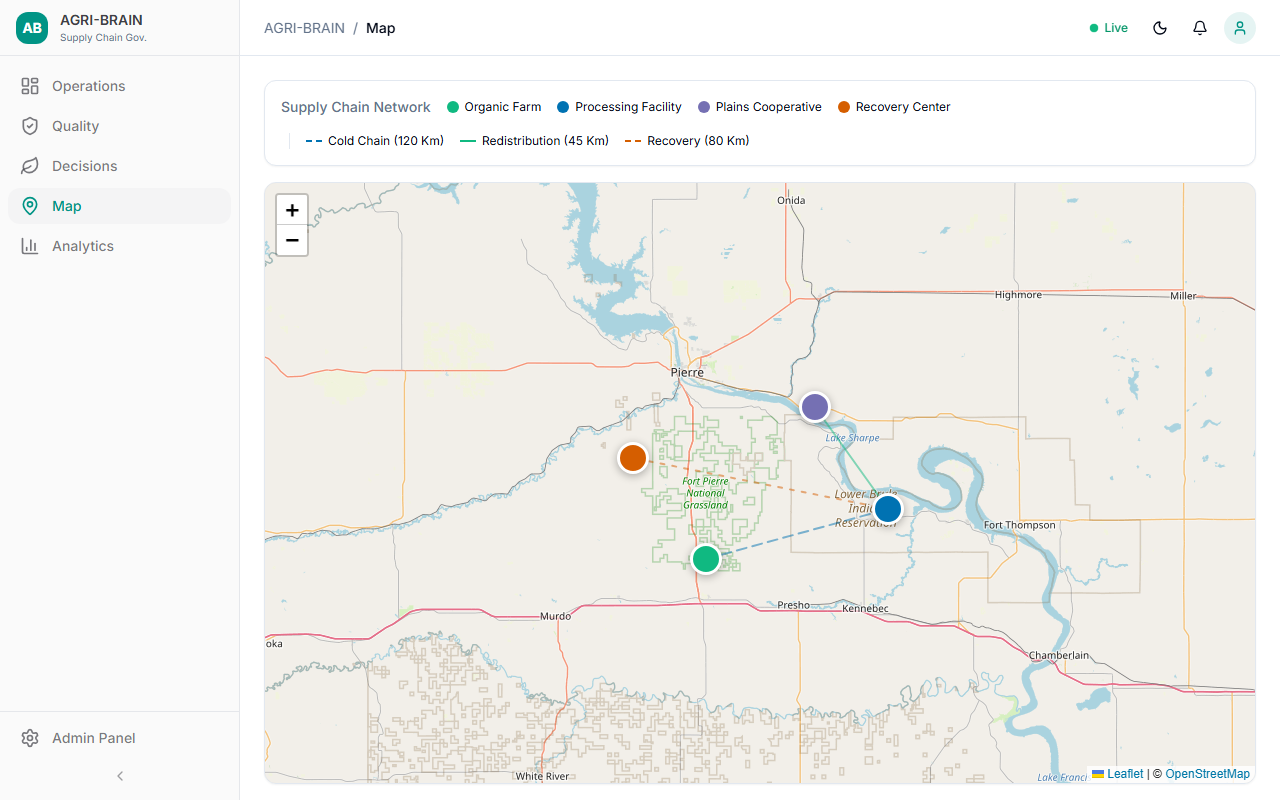
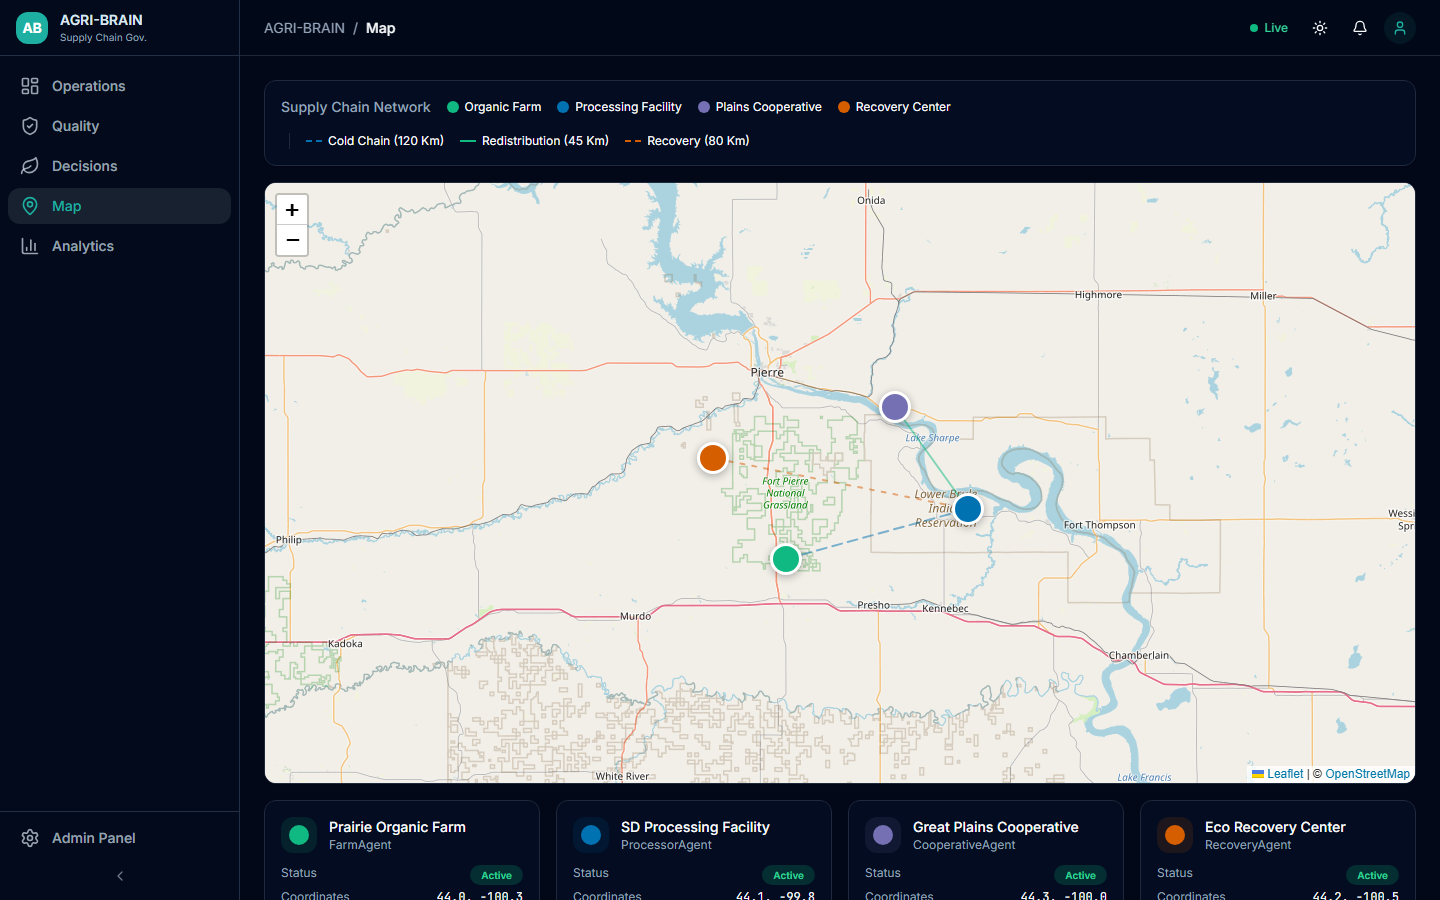
Update screenshots, simulation README, and fix stale 5-mode references

diff --git a/agri-brain-mvp-1.0.0/backend/src/routers/results.py b/agri-brain-mvp-1.0.0/backend/src/routers/results.py
@@ -31,7 +31,7 @@ _RESULTS_DIR = _SIM_DIR / "results"
 # ---------------------------------------------------------------------------
 @router.post("/generate")
 def generate_results():
-    """Run all 5 scenarios x 5 modes and return a summary JSON.
+    """Run all 5 scenarios x 8 modes and return a summary JSON.
 
     Also saves CSV tables and (optionally) figures to disk.
     """

diff --git a/mvp/simulation/README.md b/mvp/simulation/README.md
@@ -5,42 +5,61 @@ results for the AGRI-BRAIN system.
 
 ## Overview
 
-The simulation runs 5 **scenarios** × 5 **modes** to evaluate the AGRI-BRAIN
-adaptive supply-chain intelligence system against baselines and ablation
-variants.
+The simulation runs 5 **scenarios** x 8 **modes** (40 episodes) to evaluate
+the AGRI-BRAIN adaptive supply-chain intelligence system against baselines and
+ablation variants, including MCP/piRAG context integration ablations.
 
 ### Scenarios
 
 | ID | Description |
 |----|-------------|
-| `heatwave` | 72 h climate-induced heatwave: +20 °C ramp (hours 24–48) with exponential tail; +10 % RH |
-| `overproduction` | Inventory multiplied 2.5× during hours 12–60; triggers redistribution |
-| `cyber_outage` | Demand drops to 15 % from hour 24 onward; +10 °C refrigeration degradation |
-| `adaptive_pricing` | Demand oscillation (amplitude 45, period 60) plus Gaussian noise (σ=14) |
+| `heatwave` | 72 h climate-induced heatwave: +20 C ramp (hours 24-48) with exponential tail; +10 % RH |
+| `overproduction` | Inventory multiplied 2.5x during hours 12-60; triggers redistribution |
+| `cyber_outage` | Demand drops to 15 % from hour 24 onward; +10 C refrigeration degradation |
+| `adaptive_pricing` | Demand oscillation (amplitude 45, period 60) plus Gaussian noise (sigma=14) |
 | `baseline` | Original sensor data with no perturbation |
 
 ### Modes
 
 | Mode | Description |
 |------|-------------|
-| `static` | Always selects cold-chain routing — no intelligence |
+| `static` | Always selects cold-chain routing; no intelligence |
 | `hybrid_rl` | Softmax policy with regime tilt but no SLCA logit correction |
 | `no_pinn` | Degraded spoilage estimate (no PINN integration) |
 | `no_slca` | Full PINN but uniform social scores (no SLCA optimisation) |
-| `agribrain` | Full system: PINN spoilage + SLCA-aware routing + regime tilt |
+| `no_context` | Full agribrain policy but MCP/piRAG context disabled |
+| `mcp_only` | MCP tool outputs only (compliance, forecast); piRAG features zeroed |
+| `pirag_only` | piRAG retrieval only (regulatory, confidence); MCP features zeroed |
+| `agribrain` | Full system: PINN + SLCA + MCP tools + piRAG retrieval + online learning |
+
+The last four modes (`no_context`, `mcp_only`, `pirag_only`, `agribrain`)
+share the same RNG seed per scenario so that ARI differences reflect only
+context injection, not stochastic noise.
 
 ## Models Used
 
 All models are imported from the backend (`backend/src/models/`):
 
-- **Spoilage (PINN)**: First-order ODE decay `dC/dt = -k_eff(t,T,H) · C` with
-  Arrhenius parameters `k_ref=0.0021 h⁻¹`, `Ea/R=8000 K`, `T_ref=277.15 K`, `β=0.25`
-  and Baranyi lag phase `λ=12.0 h`
+- **Spoilage (PINN)**: First-order ODE decay `dC/dt = -k_eff(t,T,H) * C` with
+  Arrhenius parameters `k_ref=0.0021 h^-1`, `Ea/R=8000 K`, `T_ref=277.15 K`, `beta=0.25`
+  and Baranyi lag phase `lambda=12.0 h`
 - **Forecast**: Exponential smoothing with horizon tiling (Section 4.2.2)
 - **SLCA**: 4-component Social Life-Cycle Assessment
   (Carbon, Labour, Resilience, Price transparency)
-- **Policy**: Contextual softmax policy with θ matrix (3 actions × 6 features)
+- **Policy**: Contextual softmax policy with theta matrix (3 actions x 6 features)
   and Bollinger volatility regime tilt
+
+## MCP/piRAG Context Integration
+
+Each agent step invokes role-specific MCP tools and piRAG knowledge retrieval:
+
+- **MCP tools** (JSON-RPC 2.0): 12 registered tools including compliance check, spoilage forecast, SLCA lookup, chain query, policy oracle, calculator, footprint query, recovery capacity, pirag_query, explain, and context_features
+- **piRAG pipeline**: 20-document knowledge base with BM25+TF-IDF hybrid retrieval (k=4), physics-informed reranking, scenario-discriminative query expansion
+- **Context features**: 5D feature vector psi = [compliance severity, forecast urgency, retrieval confidence, regulatory pressure, recovery saturation] with learned Theta_context weight matrix
+- **Governance override**: Deterministic redistribution when cumulative evidence strongly disfavors cold chain
+- **Online REINFORCE learning**: Sign-constrained gradient updates on Theta_context weights
+- **Causal explanation engine**: BECAUSE/WITHOUT reasoning with [KB:] citations and Merkle provenance
+- **Protocol recording**: Every MCP JSON-RPC interaction is captured as genuine protocol traffic
 
 ## Multi-Agent Architecture
 
@@ -52,6 +71,7 @@ based on hours since harvest:
 |-------|------|---------------|---------------------|---------|
 | FarmAgent | farm | [0, 18) | [+0.08, -0.03, -0.05] | Preserve freshness |
 | ProcessorAgent | processor | [18, 36) | [-0.02, +0.06, -0.04] | Processing efficiency |
+| CooperativeAgent | cooperative | [12, 30) overlay | [0.00, +0.04, -0.04] | Governance coordination |
 | DistributorAgent | distributor | [36, 54) | [-0.05, +0.10, -0.05] | Community redistribution |
 | RecoveryAgent | recovery | [54, +inf) | [-0.06, -0.02, +0.08] | Waste valorization |
 
@@ -66,12 +86,12 @@ the global policy.
 
 | Metric | Formula | Description |
 |--------|---------|-------------|
-| ARI | `(1 − waste) · SLCA · shelf_quality` | Adaptive Resilience Index |
+| ARI | `(1 - waste) * SLCA * shelf_quality` | Adaptive Resilience Index |
 | RLE | `routed_at_risk / total_at_risk` | Reverse Logistics Efficiency |
-| Waste | `ρ − saved` (intervention model) | Effective produce loss rate |
-| SLCA | `w_c·C + w_l·L + w_r·R + w_p·P` | Social LCA composite score |
-| Carbon | `Σ(km × carbon_per_km)` | Total CO₂ emissions (kg) |
-| Equity | `1 − σ(SLCA_values)` | SLCA uniformity index (Gini-inspired) |
+| Waste | `rho - saved` (intervention model) | Effective produce loss rate |
+| SLCA | `w_c*C + w_l*L + w_r*R + w_p*P` | Social LCA composite score |
+| Carbon | `sum(km * carbon_per_km)` | Total CO2 emissions (kg) |
+| Equity | `1 - sigma(SLCA_values)` | SLCA uniformity index (Gini-inspired) |
 
 ## Reproducing Results
 
@@ -83,31 +103,43 @@ python generate_figures.py    # generates all 7 publication figures
 ```
 
 All outputs are saved to `mvp/simulation/results/`:
-- `table1_summary.csv` — Scenario × Method (static, hybrid_rl, agribrain)
-- `table2_ablation.csv` — Scenario × Variant (all 5 modes)
-- `fig2_heatwave.png/.pdf` — Heatwave deep-dive (2×2)
-- `fig3_overproduction.png/.pdf` — Overproduction reverse logistics (2×2)
-- `fig4_cyber.png/.pdf` — Cyber outage analysis (1×3)
-- `fig5_pricing.png/.pdf` — Demand volatility & pricing (2×2)
-- `fig6_cross.png/.pdf` — Cross-scenario comparison (2×2 bars)
-- `fig7_ablation.png/.pdf` — Ablation study (1×3 bars)
-- `fig8_green_ai.png/.pdf` — Green AI carbon footprint (1×2)
+- `table1_summary.csv` -- Scenario x Method (static, hybrid_rl, agribrain)
+- `table2_ablation.csv` -- Scenario x Variant (all 8 modes)
+- `traces_*.json` -- Decision traces with keywords, causal reasoning, provenance per scenario
+- `mcp_protocol_*.json` -- Genuine MCP JSON-RPC interaction logs per scenario
+- `fig2_heatwave.png/.pdf` through `fig8_green_ai.png/.pdf` -- 7 publication figures
 
 ## Expected Approximate Results (AGRI-BRAIN mode)
 
 | Scenario | ARI | Waste | RLE | SLCA |
 |----------|-----|-------|-----|------|
-| Heatwave | ~0.60 | ~0.03 | ~0.98 | ~0.74 |
-| Overproduction | ~0.60 | ~0.05 | ~0.95 | ~0.70 |
-| Cyber Outage | ~0.64 | ~0.04 | ~0.84 | ~0.73 |
-| Price Volatility | ~0.72 | ~0.02 | ~0.82 | ~0.78 |
-| Baseline | ~0.72 | ~0.02 | ~0.88 | ~0.78 |
+| Heatwave | 0.614 | 0.021 | 0.994 | 0.756 |
+| Overproduction | 0.628 | 0.042 | 0.985 | 0.726 |
+| Cyber Outage | 0.648 | 0.033 | 0.808 | 0.733 |
+| Adaptive Pricing | 0.742 | 0.019 | 0.909 | 0.805 |
+| Baseline | 0.760 | 0.018 | 0.960 | 0.818 |
 
-### Ablation Impact (largest to smallest)
+### Ablation Impact (ARI, largest to smallest drop from agribrain)
 
-1. **Removing SLCA** (`no_slca`) — drops SLCA to ~0.59–0.64 and ARI to ~0.49–0.58
-2. **Removing PINN** (`no_pinn`) — slight waste increase; ARI ~0.57–0.69
-3. **Hybrid RL** (no SLCA logit bonus) — slightly less optimal routing; ARI ~0.54–0.67
+1. **Removing SLCA** (`no_slca`) -- drops SLCA to ~0.60-0.65 and ARI to ~0.50-0.58
+2. **Removing PINN** (`no_pinn`) -- slight waste increase; ARI ~0.57-0.71
+3. **Hybrid RL only** -- no SLCA logit bonus; ARI ~0.55-0.66
+4. **No context** (`no_context`) -- full policy but no MCP/piRAG; ARI ~0.59-0.73
+5. **MCP only** (`mcp_only`) -- compliance/forecast tools without piRAG retrieval; ARI +0.001-0.022 over no_context
+6. **piRAG only** (`pirag_only`) -- knowledge retrieval without MCP tools; ARI +0.006-0.024 over no_context
+7. **Full AGRI-BRAIN** (`agribrain`) -- all components; ARI +0.008-0.033 over no_context
+
+piRAG consistently contributes more than MCP across all 5 scenarios. Zero rank inversions.
+
+### Context Diagnostics (agribrain mode)
+
+| Scenario | MCP calls | piRAG queries | Governance overrides | Learner delta-theta norm |
+|----------|-----------|---------------|---------------------|--------------------------|
+| Heatwave | ~450 | 288 | ~68 | 0.023 |
+| Overproduction | ~680 | 288 | 0 | 0.032 |
+| Cyber Outage | ~430 | 288 | ~159 | 0.024 |
+| Adaptive Pricing | ~490 | 288 | 0 | 0.042 |
+| Baseline | ~430 | 288 | 0 | 0.048 |
 
 ## Seed & Reproducibility
 
@@ -119,6 +151,6 @@ Deterministic seeding ensures exact reproducibility across platforms.
 The simulation is also accessible via the backend API:
 
 ```
-POST /results/generate    → runs simulation, returns summary JSON
-GET  /results/figures/{filename}  → serves generated figure files
+POST /results/generate    -> runs simulation, returns summary JSON
+GET  /results/figures/{filename}  -> serves generated figure files
 ```

diff --git a/README.md b/README.md
@@ -24,6 +24,14 @@ REINFORCE learning for sustainable food logistics.
 |:---:|
 | ![Scenarios](docs/screenshots/admin-scenarios-light.png) |
 
+| Explainability Panel | MCP Tools | MCP Resources |
+|:---:|:---:|:---:|
+| ![Explainability](docs/screenshots/decisions-explainability-light.png) | ![MCP Tools](docs/screenshots/admin-mcp-tools-light.png) | ![MCP Resources](docs/screenshots/admin-mcp-resources-light.png) |
+
+| MCP Invocation | piRAG Search |
+|:---:|:---:|
+| ![MCP Invoke](docs/screenshots/admin-mcp-invoke-light.png) | ![piRAG](docs/screenshots/admin-mcp-pirag-light.png) |
+
 ## Architecture Highlights
 
 - **MCP interoperability layer** with 12 registered tools, 12 resources, and 5 prompts
